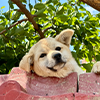
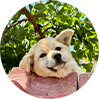
[Design] Resource
사진 리소스 변경
애니메이션 추가
실행 오류 수정

diff --git a/Assets/Scripts/StartScene.cs b/Assets/Scripts/StartScene.cs
@@ -14,8 +14,11 @@ public class StartScene : MonoBehaviour
     }
     public void retry()
     {
+        Time.timeScale = 1.0f;
         SoundManager.inst.ESound(AudioType.Click);
         Invoke("LoadGameScene", 0.3f);
+        ballAnimator.SetTrigger("MoveUp");
+        
     }
 
     public void LoadGameScene()
@@ -33,12 +36,14 @@ public class StartScene : MonoBehaviour
     public GameObject NormalBtn;
     public GameObject HardBtn;
     public GameObject CrazyBtn;
+    public GameObject HiddenBtn;
 
     public GameObject MainBall;
     public GameObject MainBallHard;
     public GameObject MainBallCrazy;
 
-  
+    public Animator ballAnimator;
+
 
     public void ClickNormal()
     {
@@ -49,8 +54,7 @@ public class StartScene : MonoBehaviour
 
         GameManager.SelectMode(GameModeType.Normal);
        
-
-        
+        ballAnimator = MainBall.GetComponent<Animator>();
     }
 
     public void ClickHard()
@@ -61,6 +65,8 @@ public class StartScene : MonoBehaviour
         MainBallCrazy.SetActive(false);
 
         GameManager.SelectMode(GameModeType.Hard);
+
+        ballAnimator = MainBallHard.GetComponent<Animator>();
     }
 
     public void ClickCrazy()
@@ -71,6 +77,17 @@ public class StartScene : MonoBehaviour
         MainBallCrazy.SetActive(true);
 
         GameManager.SelectMode(GameModeType.Crazy);
+
+        ballAnimator = MainBallCrazy.GetComponent<Animator>();
+    }
+
+    public void ClickHidden()
+    {
+        Debug.Log("Hidden");
+       
+
+        GameManager.SelectMode(GameModeType.Hidden);
+
     }
 
 }

diff --git a/Assets/Scripts/ButtonAnimation.cs b/Assets/Scripts/ButtonAnimation.cs
@@ -9,11 +9,6 @@ public class ButtonAnimation : MonoBehaviour
     public Button playButton;  
     public Animator animator;
 
-    public Button MainBall;
-    public Button MainBallHard;
-    public Button MainBallCrazy;
-    public Animator ballAnimator;
-
 
 
     void Start()
@@ -26,11 +21,6 @@ public class ButtonAnimation : MonoBehaviour
     {
         // 버튼이 클릭될 때 트리거를 설정하여 애니메이션 재생
         animator.SetTrigger("Click");
-    }
-
-    public void OnBallClick()
-    {
-        ballAnimator.SetTrigger("MoveUp"); 
     }
 
 }

diff --git a/Assets/Scripts/GameManager.cs b/Assets/Scripts/GameManager.cs
@@ -11,7 +11,8 @@ public enum GameModeType
     None,
     Normal,
     Hard,
-    Crazy
+    Crazy,
+    Hidden
 }
 
 public class GameManager : MonoBehaviour
@@ -114,6 +115,10 @@ public class GameManager : MonoBehaviour
             case GameModeType.Crazy:
                 Debug.Log("Crazy Mode");
                 cardList = board.CrazyModeShuffle();
+                break;
+            case GameModeType.Hidden:
+                Debug.Log("Crazy Mode");
+                cardList = board.HiddenModeShuffle();
                 break;
         }
         // BallSpawner();

diff --git a/Assets/Scripts/Board.cs b/Assets/Scripts/Board.cs
@@ -96,4 +96,14 @@ public class Board : MonoBehaviour
 
         return cardList;
     }
+
+
+    public List<Card> HiddenModeShuffle()
+    {
+        List<Card> cardList = new List<Card>();
+        // TODO : Hidden 난이 구현
+
+        return cardList;
+    }
+
 }
